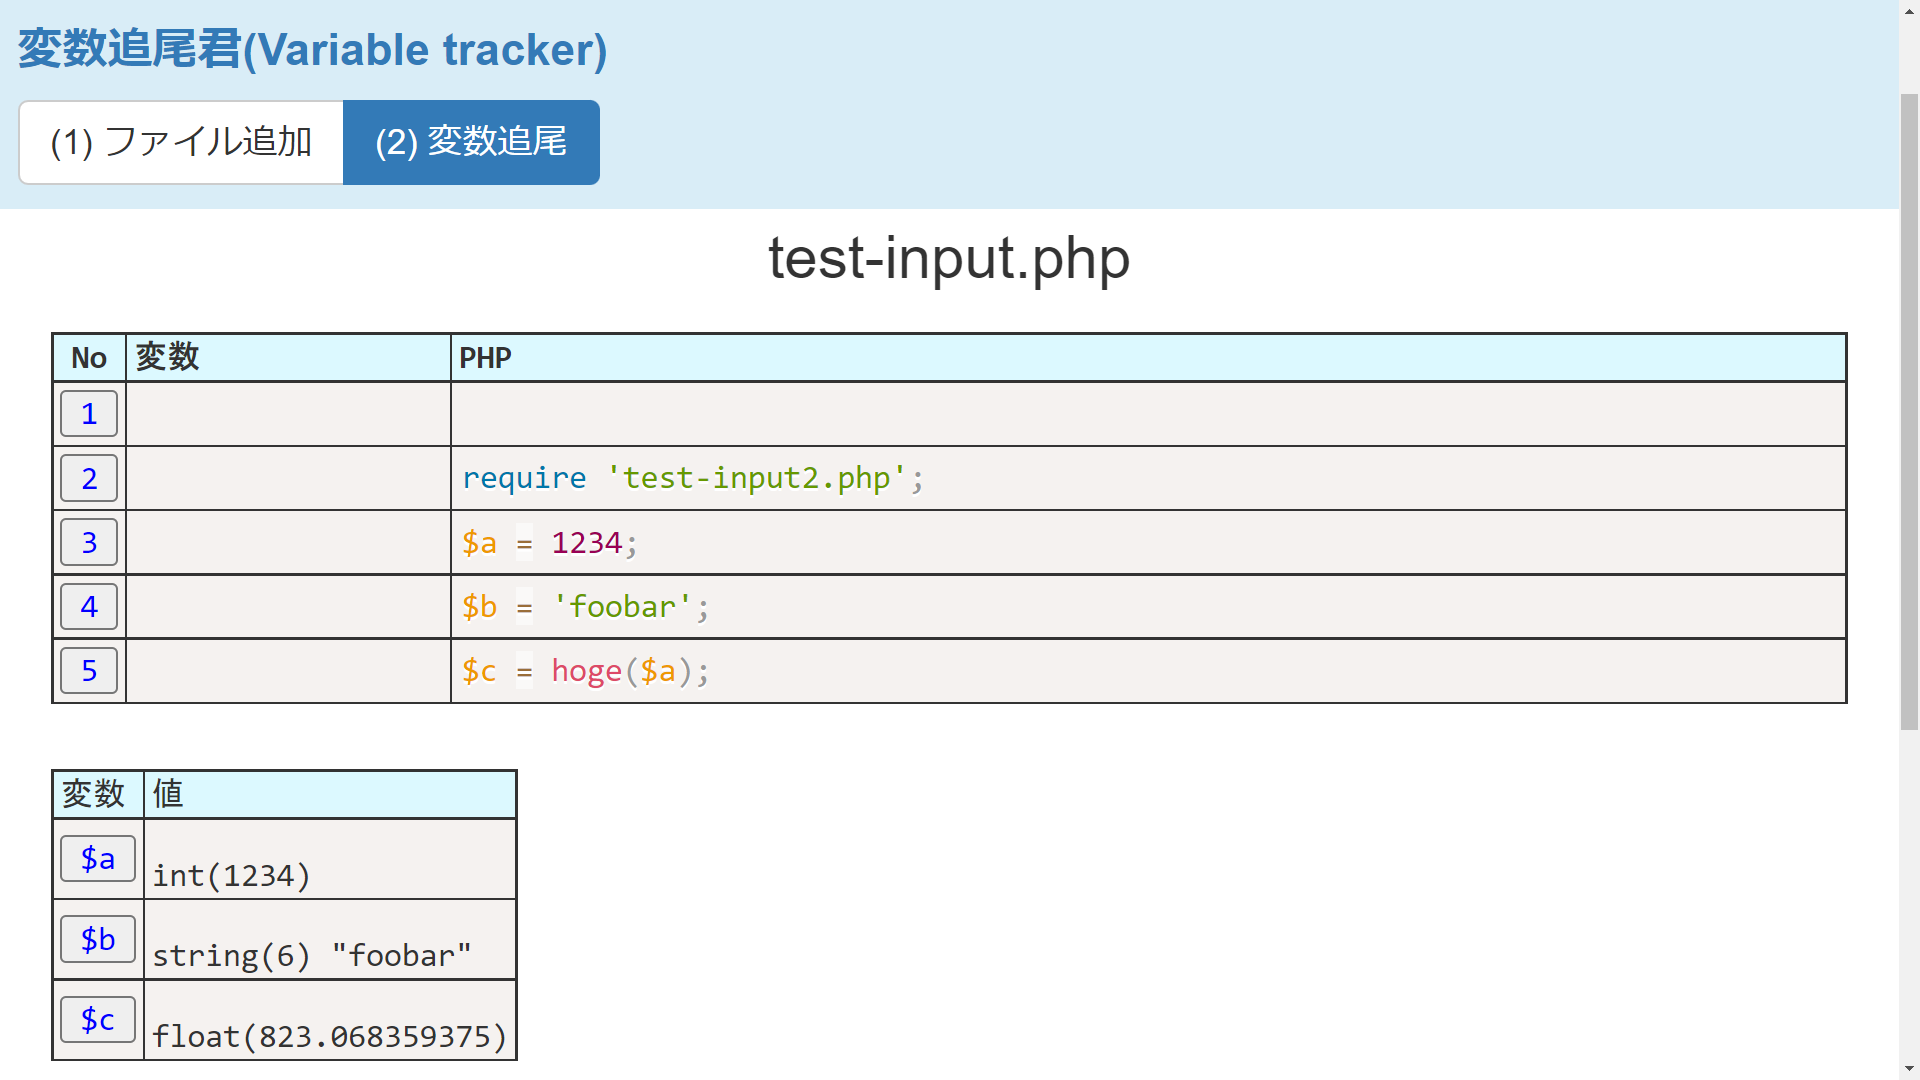
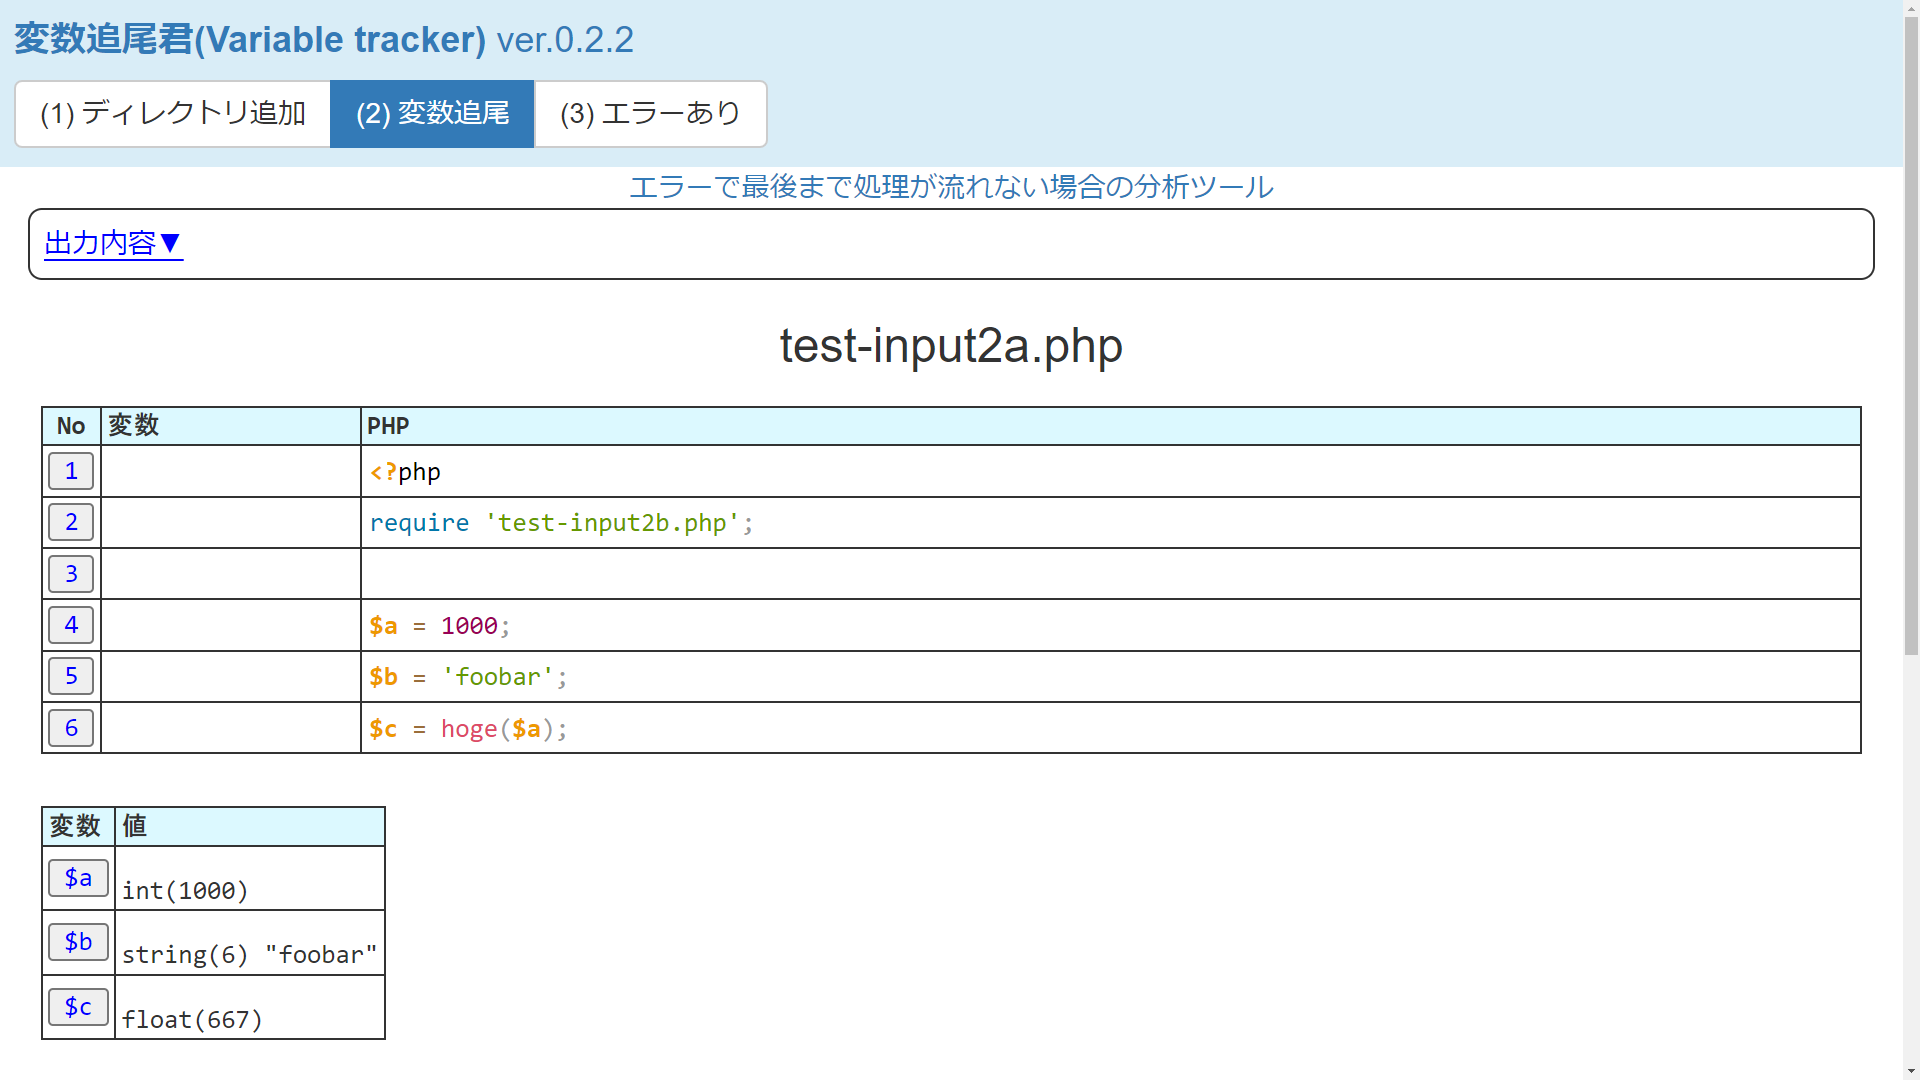
0.2.2 使い方

Changed region(s): [[0.0, 0.3056, 1.0, 0.9778], [0.0, 0.0, 1.0, 0.275], [0.9688, 0.0, 1.0, 0.0917]]

diff --git a/help.php b/help.php
@@ -4,18 +4,36 @@ require './module/header.php';
 ?>
 
 <h3>使い方(How to use)</h3><br>
+<<<<<<< Updated upstream
 <p>[(1) ファイル追加] 画面からPHPファイルをアップロードしてください。</p>
 <img src="img/input.png" alt="ファイル追加"><hr>
+=======
+<p>[(1) ディレクトリ追加] 画面からPHPファイルがある<b>ディレクトリ</b>（フォルダー）を選択してアップロードしてください。</p>
+<img src="img/input.png" alt="ファイル追加"><hr>
+<p>画面下に表示されるファイル一覧から<b>変数を確認したいファイル</b>を１つ選択してください。</p>
+<img src="img/select.png" alt="ファイル追加"><hr>
+>>>>>>> Stashed changes
 <p>[(2) 変数追尾] 画面が表示されます。上部の<b>出力内容</b>をクリックするとコードの実行結果が表示されます。</p>
 <img src="img/track.png" alt="変数追尾"><hr>
 <p><b>行番号</b>をクリックすると、その行のスコープで参照できる変数の値が一覧表示されます。</p>
 <p>再度、<b>行番号</b>をクリックすると一覧が閉じます。</p>
 <img src="img/track-break.png" alt="ブレイクボタン"><hr>
-<p>変数の一覧で<b>変数名</b>をクリックすると、各行におけるその変数の値が１列で表示されます。</p><br>
+<p>変数の一覧で<b>変数名</b>をクリックすると、各行におけるその変数の値が１列で表示されます。</p>
 <p>再度、<b>変数名</b>をクリックすると選択が解除されます。</p>
+<p>（このツールでは、行の最後に「;」があれば変数を取得しています）</p>
 <img src="img/track-column.png" alt="変数列"><hr>
+<<<<<<< Updated upstream
 <a href="file-input.php">ファイル追加へ進む</a><hr>
 
+=======
+<p>上部の<b>[(3) エラーあり]</b> をクリックすると、最後まで処理が流れないコードのための分析ツールが開きます。</p>
+<p>エラーで止まるまでのecho文などの出力と、PHPが一緒に表示されます。</p>
+<img src="img/error.png" alt="変数列"><hr>
+<p>出力内容の中にある<b>PHPリンク</b>をクリックすると、その行における変数の値が表形式で表示されます。</p>
+<p>再度、<b>PHPリンク</b>をクリックすると表が非表示になります。</p>
+<img src="img/error-break.png" alt="変数列"><hr>
+<a href="file-input.php" class="btn bg-primary">ディレクトリ追加へ進む</a>
+>>>>>>> Stashed changes
 
 <?php
 require './module/footer.php';

diff --git a/file-input.php b/file-input.php
@@ -11,6 +11,7 @@ require './module/header.php';
 if (file_exists('download')) remove_directory('download');
 ?>
 
+<<<<<<< Updated upstream
 <!-- JavaScript -->
 <script type="text/javascript" language="javascript">
 <!--
@@ -26,6 +27,36 @@ function OnFileSelect( inputElement )
         let file = fileList[ i ];
         fileListBody += '<input type="radio" name="main_file" value="' + file.name + '" id="' + i + '" required> ' + 
                         '<label for="' + i + '"> ' + file.name + "</label><br>";
+=======
+<form method="post" enctype="multipart/form-data" id="myForm" name="myForm">
+    <h3>(1) ファイル追加</h3><br>
+    <p><b>対応ファイル情報：</b><br>
+    異なるディレクトリにあるファイルの参照に対応しました(動作環境はChromeなどのWebkit限定です)。<br>
+    エラーがあり途中で処理が止まるファイルに対応しました。</p><br>
+
+    <label for="file">アップロードするフォルダを選択してください</label>
+    <input type="file" name="upfile[]" webkitdirectory><br>
+    <input type="submit" name="btn" value="追加" onclick="funcBtn();" />
+</form>
+
+
+<script type="text/javascript">
+
+var input = document.getElementById('myForm');
+var ele = document.createElement('input');
+var files;
+
+input.onchange = function(e) {
+  files = e.target.files; // FileList
+};
+
+function funcBtn() {
+    var ary = [];
+
+    // 相対パスを一つの文字列にまとめる
+    for (var i = 0, f; f = files[i]; ++i){
+        ary.push(files[i].webkitRelativePath);
+>>>>>>> Stashed changes
     }
  
     // 結果のHTMLを流し込む
